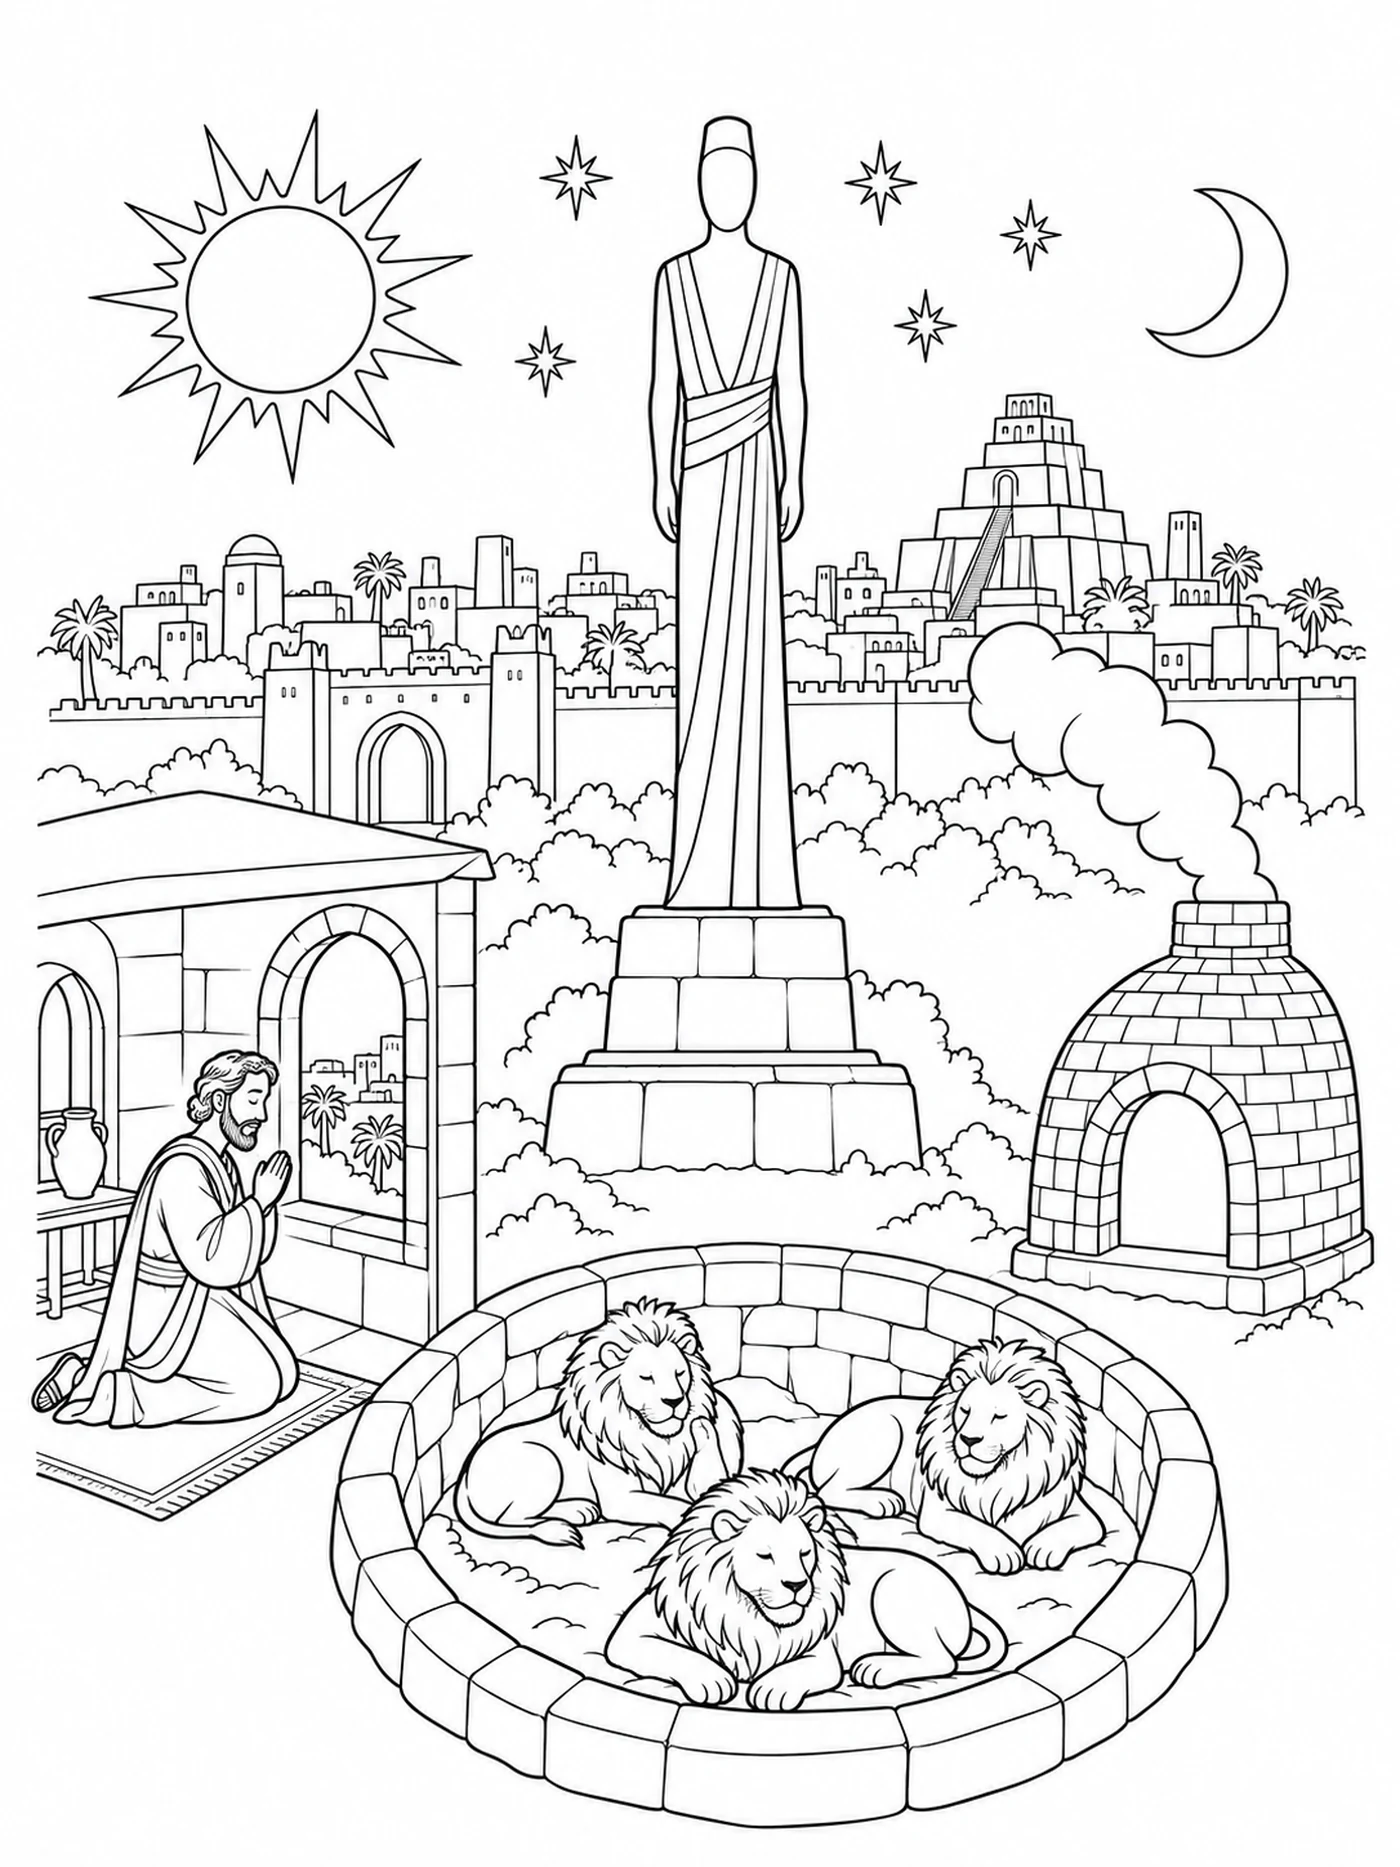
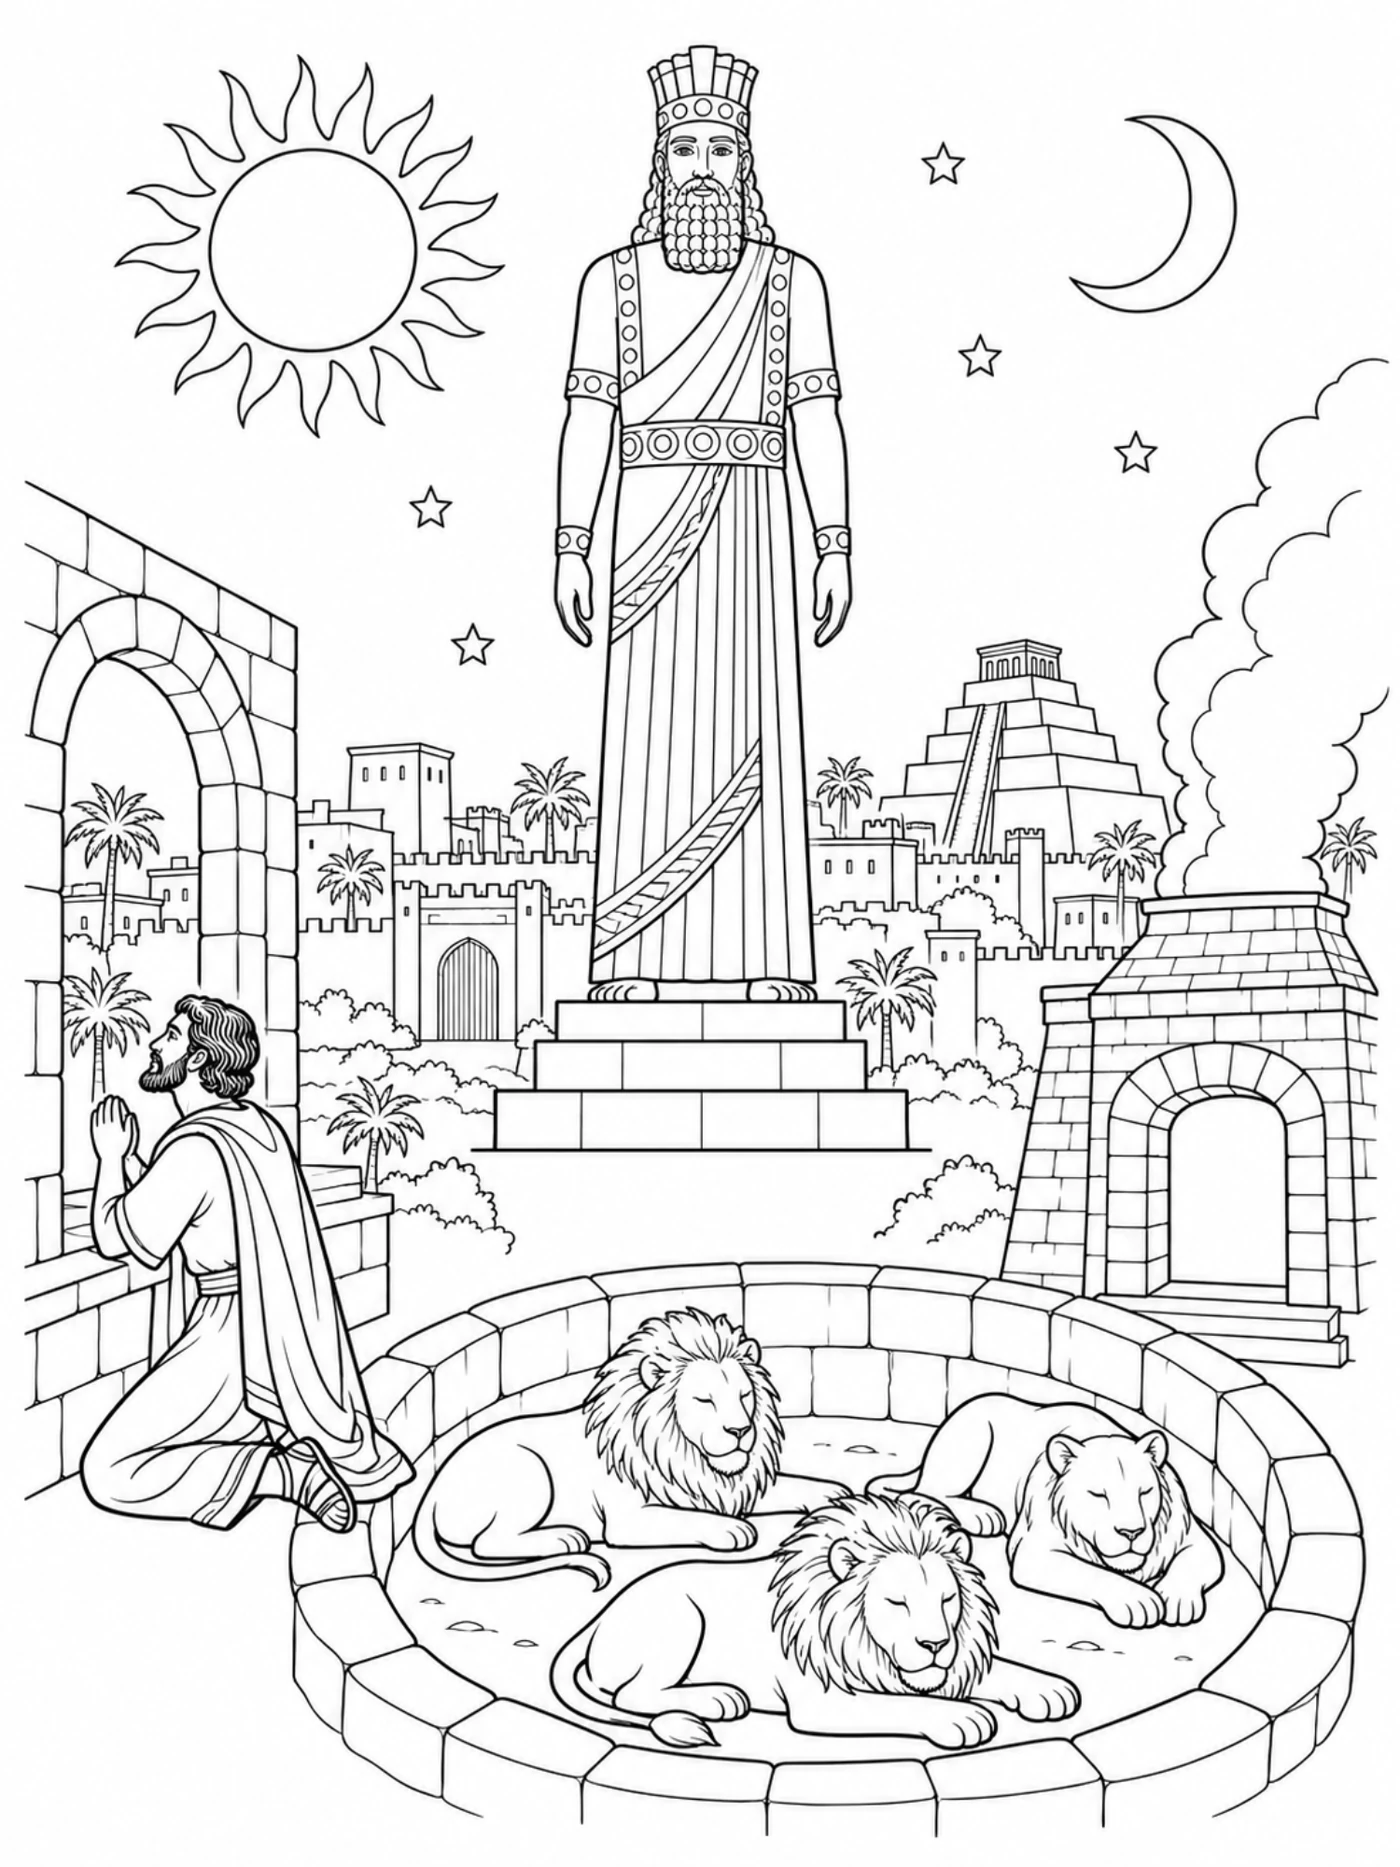
Bilder-Audit (Mose, Jona, Daniel): golden image in the Daniel panorama now a bearded Babylonian giant with a face; Daniel medal cut free again without ground shadow; Daniel gift page and statue game slices with face (Codex); Jonah sheep sprites without white holes; stations moved to their scenes (Mo

diff --git a/src/data/adventures/jonaPath.ts b/src/data/adventures/jonaPath.ts
@@ -12,17 +12,17 @@ export const JONA_PATH: [number, number][][] = [
   // station 2 to 3
   [[0.1906, 0.6371], [0.1943, 0.6519], [0.198, 0.6667], [0.2018, 0.6812], [0.2056, 0.695], [0.2095, 0.7079], [0.2135, 0.7196], [0.2177, 0.7301], [0.2218, 0.7395], [0.2261, 0.7481], [0.2304, 0.7557], [0.2347, 0.7625], [0.2391, 0.7681], [0.2435, 0.7726], [0.2479, 0.7759], [0.2523, 0.7783], [0.2568, 0.7799], [0.2613, 0.7809], [0.2657, 0.7814], [0.2702, 0.7813], [0.2747, 0.7805], [0.2791, 0.7789], [0.2836, 0.776], [0.288, 0.7713], [0.2923, 0.7644], [0.2964, 0.7541], [0.2999, 0.7376], [0.3017, 0.7134], [0.3021, 0.6867], [0.302, 0.6599], [0.3019, 0.633], [0.3018, 0.6062], [0.3019, 0.5793], [0.3023, 0.5526], [0.3034, 0.5266], [0.3055, 0.5031], [0.3085, 0.4833], [0.3127, 0.4739], [0.3171, 0.4733]],
   // station 3 to 4
-  [[0.3551, 0.4733], [0.3595, 0.4758], [0.3639, 0.4801], [0.3683, 0.4862], [0.3726, 0.4943], [0.3767, 0.5048], [0.3805, 0.5185], [0.384, 0.535], [0.3873, 0.5536], [0.3903, 0.5733], [0.3934, 0.5928], [0.3968, 0.6104], [0.4006, 0.6241], [0.4049, 0.6311]],
+  [[0.3551, 0.4733], [0.3596, 0.4711], [0.3642, 0.4692], [0.3687, 0.4674], [0.3733, 0.4665], [0.3778, 0.4667], [0.3824, 0.4684], [0.3869, 0.472], [0.3913, 0.4776], [0.3957, 0.4855], [0.3999, 0.4955], [0.4041, 0.507], [0.4081, 0.5197], [0.4121, 0.5329], [0.4161, 0.5459], [0.4202, 0.558], [0.4244, 0.5686], [0.4287, 0.577], [0.4332, 0.5825]],
   // station 4 to 5
-  [[0.4429, 0.6311], [0.447, 0.6192], [0.4505, 0.6017], [0.4537, 0.5825], [0.4569, 0.5631], [0.4602, 0.5443], [0.4637, 0.5272], [0.4677, 0.5142], [0.472, 0.506], [0.4761, 0.4942], [0.4796, 0.4768], [0.4825, 0.4559], [0.485, 0.4331], [0.4872, 0.4092], [0.4892, 0.3849], [0.4912, 0.3603], [0.4933, 0.3361], [0.4956, 0.3126], [0.4984, 0.2909], [0.5017, 0.2725], [0.5058, 0.2609]],
+  [[0.4712, 0.5825], [0.4711, 0.555], [0.4711, 0.5274], [0.4711, 0.4999], [0.4716, 0.4729], [0.4754, 0.4581], [0.4789, 0.4401], [0.4819, 0.4193], [0.4847, 0.3974], [0.4874, 0.3753], [0.4902, 0.3534], [0.4932, 0.3327], [0.4966, 0.3147], [0.5008, 0.3034]],
   // station 5 to 6
-  [[0.5438, 0.2609], [0.5468, 0.24], [0.5499, 0.22], [0.5532, 0.2014], [0.5568, 0.1849], [0.5608, 0.1719], [0.5652, 0.1642], [0.5697, 0.1637], [0.5741, 0.1705], [0.5781, 0.1829], [0.5818, 0.1992], [0.5851, 0.2178], [0.5882, 0.2379], [0.5911, 0.2591], [0.5938, 0.281], [0.5964, 0.3034], [0.5989, 0.3262], [0.6014, 0.3493], [0.6038, 0.3725], [0.6062, 0.3957], [0.6086, 0.419], [0.611, 0.4423], [0.6134, 0.4655], [0.6158, 0.4885], [0.6183, 0.5113], [0.6209, 0.534]],
+  [[0.5388, 0.3034], [0.5413, 0.2811], [0.5439, 0.2591], [0.5467, 0.2378], [0.5496, 0.2173], [0.5527, 0.1979], [0.5561, 0.1802], [0.5599, 0.1653], [0.564, 0.1546], [0.5684, 0.1502], [0.5729, 0.1533], [0.577, 0.1631], [0.5808, 0.1776], [0.5843, 0.195], [0.5874, 0.2144], [0.5903, 0.2351], [0.593, 0.2566], [0.5956, 0.2787], [0.5981, 0.3012], [0.6005, 0.3241], [0.6028, 0.3472], [0.6051, 0.3705], [0.6073, 0.3938], [0.6096, 0.4172], [0.6118, 0.4407], [0.6141, 0.4641], [0.6163, 0.4875], [0.6186, 0.5108], [0.6209, 0.534]],
   // station 6 to 7
-  [[0.6591, 0.534], [0.6618, 0.5554], [0.6646, 0.5767], [0.6674, 0.5978], [0.6703, 0.6183], [0.6734, 0.6378], [0.6767, 0.6559], [0.6803, 0.6724], [0.6841, 0.6873], [0.6879, 0.7008], [0.6919, 0.7132], [0.696, 0.7246], [0.7002, 0.7348], [0.7044, 0.7436], [0.7087, 0.7511], [0.7131, 0.7573], [0.7175, 0.7623], [0.722, 0.7663], [0.7264, 0.7697], [0.7309, 0.7726], [0.7354, 0.7751], [0.7398, 0.7772], [0.7443, 0.779], [0.7488, 0.7802], [0.7533, 0.7809], [0.7578, 0.7808], [0.7623, 0.7798], [0.7668, 0.7773], [0.7712, 0.7718], [0.7753, 0.7616], [0.779, 0.7459], [0.7818, 0.7251], [0.7834, 0.6999], [0.784, 0.6731], [0.7844, 0.6462]],
+  [[0.6589, 0.534], [0.6633, 0.5266], [0.6675, 0.5154], [0.6715, 0.5015], [0.6753, 0.486], [0.679, 0.4701], [0.6828, 0.4548], [0.6868, 0.441], [0.691, 0.4297], [0.6954, 0.4215], [0.6999, 0.4163], [0.7045, 0.4138], [0.7091, 0.4133], [0.7137, 0.4144], [0.7183, 0.4163], [0.7228, 0.4187]],
   // station 7 to 8
-  [[0.8217, 0.6713], [0.8233, 0.696], [0.8252, 0.7195], [0.8281, 0.7391], [0.8319, 0.7526], [0.836, 0.7615], [0.8403, 0.7663], [0.8447, 0.7659], [0.849, 0.7611], [0.8532, 0.7526], [0.8569, 0.739], [0.86, 0.7203], [0.8626, 0.6988], [0.8645, 0.6753], [0.8659, 0.6503]],
+  [[0.7608, 0.4187], [0.7647, 0.4074], [0.7682, 0.4233], [0.7706, 0.4464], [0.7725, 0.4709], [0.7742, 0.4961], [0.7757, 0.5215], [0.7773, 0.5469], [0.7788, 0.5724], [0.7804, 0.5976], [0.7823, 0.6224], [0.7844, 0.6462]],
   // station 8 to 9
-  [[0.9031, 0.625], [0.9066, 0.641], [0.9103, 0.6558], [0.9143, 0.6669], [0.9185, 0.673], [0.9229, 0.6742], [0.9271, 0.667], [0.9307, 0.6516], [0.933, 0.6293], [0.9341, 0.6036], [0.9346, 0.5773], [0.9348, 0.5509], [0.9349, 0.5244], [0.9349, 0.4979], [0.9349, 0.4715], [0.935, 0.445], [0.9352, 0.4185], [0.9355, 0.3921], [0.936, 0.3658]],
+  [[0.8224, 0.6462], [0.8248, 0.6696], [0.8273, 0.6925], [0.83, 0.7148], [0.8329, 0.7359], [0.8362, 0.7544], [0.8402, 0.7672], [0.8448, 0.7679], [0.8488, 0.7562], [0.8523, 0.738], [0.8552, 0.717], [0.8579, 0.6948], [0.8604, 0.6718], [0.8628, 0.6485], [0.8651, 0.625]],
   // station 9 to the exam
-  [[0.9727, 0.3398], [0.9764, 0.3561], [0.9796, 0.3753], [0.9813, 0.4007], [0.9813, 0.4279], [0.9795, 0.4528], [0.9768, 0.475], [0.9748, 0.4995], [0.9736, 0.526], [0.9728, 0.5529]]
+  [[0.9031, 0.625], [0.9053, 0.6488], [0.9077, 0.6718], [0.9108, 0.6916], [0.9146, 0.7065], [0.9187, 0.7174], [0.923, 0.7259], [0.9274, 0.7323], [0.9319, 0.7362], [0.9364, 0.7367], [0.9409, 0.7335], [0.9453, 0.7269], [0.9495, 0.7165], [0.9531, 0.7007], [0.956, 0.6798], [0.9582, 0.6561], [0.9602, 0.6316], [0.9621, 0.6068]]
 ]

diff --git a/src/data/adventures/daniel.ts b/src/data/adventures/daniel.ts
@@ -59,25 +59,25 @@ const VERS: VerseGame = {
 
 /**
  * Etappe 4, "Das Standbild": die fünf Scheiben des Standbildes aus dem Traum (Kopf aus Gold, Brust und Arme aus Silber, Bauch und Hüften aus Erz, Beine aus Eisen, Füße aus Eisen und Ton) werden auf ihre Plätze gezogen, danach rollt der Stein, das Standbild
- * zerfällt und der Stein wird zum Berg (neu). Bilder (Bildauftrag D31, Neufassung v2): `standbild/traum.webp` 900 × 675 (Sockel bei 27–73 Prozent der Breite), `scheibe-1..5.webp` (aus EINEM gemalten Standbild nach Material geschnitten, Gliederpuppe ohne Gesicht,
- * `tools/standbild_scheiben.py` in Abenteuer-Daniel), `stein.webp`, `berg.webp`. Lage und Breite in Prozent des Bildes aus dem Schnitt gemessen: Kopf bei 6, Füße bei 77 Prozent der Höhe; die Arme hängen neben Bauch und Beinen und gehören zur Brust
+ * zerfällt und der Stein wird zum Berg (neu). Bilder (Bildauftrag D31, Neufassung v3 vom 24.10.2026): `standbild/traum.webp` 900 × 675 (Sockel bei 27–73 Prozent der Breite), `scheibe-1..5.webp` (aus EINEM gemalten Standbild nach Material geschnitten, ein bärtiger babylonischer Riese mit Gesicht, Krone und Gewand (Bilder-Audit DA-3),
+ * `D:/Claude/lambking-design/_einbau-v4/standbild_scheiben_v3.py`), `stein.webp`, `berg.webp`. Lage und Breite in Prozent des Bildes aus dem Schnitt gemessen: Kopf bei 6, Füße bei 77 Prozent der Höhe; die Arme hängen neben Bauch und Beinen und gehören zur Brust
  * (darum liegt der Platz der Brust nur am Körper, die Scheibe selbst sitzt in der Mitte ihrer Umrisse). Wartend sind die Scheiben größer gezeichnet (`wait`).
  */
 const STANDBILD: StatueGame = {
   background: `${G}standbild/traum.webp`,
   pieces: [
-    { id: 'kopf', image: `${G}standbild/scheibe-1.webp`, label: 'Gold', w: 5.18, at: { x: 50.11, y: 11.9 }, wait: 2.2 },
-    { id: 'brust', image: `${G}standbild/scheibe-2.webp`, label: 'Silber', w: 15.68, at: { x: 50.01, y: 33.4 }, wait: 1.2 },
-    { id: 'bauch', image: `${G}standbild/scheibe-3.webp`, label: 'Erz', w: 9.35, at: { x: 50.13, y: 36.05 }, wait: 2.0 },
-    { id: 'beine', image: `${G}standbild/scheibe-4.webp`, label: 'Eisen', w: 9.22, at: { x: 50.07, y: 56.71 }, wait: 1.2 },
-    { id: 'fuesse', image: `${G}standbild/scheibe-5.webp`, label: 'Eisen und Ton', w: 13.01, at: { x: 50.09, y: 74.17 }, wait: 2.0 }
+    { id: 'kopf', image: `${G}standbild/scheibe-1.webp`, label: 'Gold', w: 11.34, at: { x: 50.01, y: 14.05 }, wait: 2.2 },
+    { id: 'brust', image: `${G}standbild/scheibe-2.webp`, label: 'Silber', w: 14.39, at: { x: 50.01, y: 35.65 }, wait: 1.2 },
+    { id: 'bauch', image: `${G}standbild/scheibe-3.webp`, label: 'Erz', w: 10.19, at: { x: 50.05, y: 40.91 }, wait: 2.0 },
+    { id: 'beine', image: `${G}standbild/scheibe-4.webp`, label: 'Eisen', w: 11.29, at: { x: 50.01, y: 60.31 }, wait: 1.2 },
+    { id: 'fuesse', image: `${G}standbild/scheibe-5.webp`, label: 'Eisen und Ton', w: 9.02, at: { x: 50.0, y: 74.22 }, wait: 2.0 }
   ],
   slots: [
-    { x: 50.11, y: 11.9, w: 5.18, h: 11.79 },
-    { x: 50.11, y: 23.88, w: 9.35, h: 12.18 },
-    { x: 50.13, y: 36.05, w: 9.35, h: 12.15 },
-    { x: 50.07, y: 56.71, w: 9.22, h: 29.18 },
-    { x: 50.09, y: 74.17, w: 13.01, h: 5.74 }
+    { x: 50.01, y: 14.05, w: 11.34, h: 16.1 },
+    { x: 50.04, y: 27.35, w: 10.17, h: 10.51 },
+    { x: 50.05, y: 40.91, w: 10.19, h: 16.61 },
+    { x: 50.01, y: 60.31, w: 11.29, h: 22.2 },
+    { x: 50.0, y: 74.22, w: 9.02, h: 5.63 }
   ],
   stone: `${G}standbild/stein.webp`,
   mountain: `${G}standbild/berg.webp`,
@@ -194,9 +194,9 @@ export const daniel: Journey = {
       { x: 0.651, y: 0.5461, d: 0.0339 },
       { x: 0.7216, y: 0.5825, d: 0.0339 },
       { x: 0.8377, y: 0.3883, d: 0.0339 },
-      { x: 0.9336, y: 0.2852, d: 0.0339 }
+      { x: 0.9336, y: 0.3641, d: 0.0339 }
     ],
-    exam: { x: 0.9861, y: 0.2852, d: 0.0339 },
+    exam: { x: 0.9861, y: 0.6129, d: 0.0339 },
     path: DANIEL_PATH
   },
   stages: [

diff --git a/src/data/adventures/mosePath.ts b/src/data/adventures/mosePath.ts
@@ -8,13 +8,13 @@
  */
 export const MOSE_PATH: [number, number][][] = [
   // station 1 to 2
-  [[0.0997, 0.6432], [0.1016, 0.6191], [0.1023, 0.5927], [0.1024, 0.566], [0.1024, 0.5393], [0.1023, 0.5126], [0.1023, 0.4859], [0.1027, 0.4593], [0.1034, 0.4329], [0.1045, 0.4071], [0.1059, 0.3818], [0.1076, 0.357], [0.1093, 0.3325], [0.1111, 0.308], [0.1129, 0.2834], [0.1152, 0.2609]],
+  [[0.0997, 0.6432], [0.0986, 0.6179], [0.098, 0.5918], [0.0974, 0.5657], [0.097, 0.5395], [0.0965, 0.5133], [0.096, 0.4871], [0.0955, 0.461], [0.0949, 0.4349], [0.0947, 0.4092], [0.0989, 0.4038], [0.1033, 0.3994], [0.1076, 0.3945], [0.1119, 0.3904], [0.1163, 0.3883]],
   // station 2 to 3
-  [[0.1532, 0.2609], [0.1562, 0.2822], [0.159, 0.304], [0.1618, 0.326], [0.1646, 0.3481], [0.1675, 0.3697], [0.1705, 0.3905], [0.1739, 0.4097], [0.1776, 0.426], [0.1818, 0.4364], [0.1864, 0.4373], [0.1907, 0.4282], [0.1946, 0.4129], [0.198, 0.3944]],
+  [[0.1542, 0.3883], [0.1565, 0.3743], [0.1587, 0.3605], [0.1611, 0.3474], [0.1637, 0.3364], [0.1668, 0.33], [0.17, 0.3313], [0.1729, 0.3393], [0.1755, 0.3509], [0.1778, 0.3641]],
   // station 3 to 4
-  [[0.236, 0.3944], [0.2371, 0.3757], [0.2368, 0.3555], [0.2361, 0.3357], [0.2358, 0.3155], [0.2365, 0.2957], [0.2382, 0.2782], [0.2403, 0.2626], [0.2424, 0.2468], [0.2444, 0.2306]],
+  [[0.2158, 0.3641], [0.2197, 0.3774], [0.2241, 0.3787], [0.2281, 0.3665], [0.2313, 0.348], [0.2342, 0.3272], [0.2368, 0.3052], [0.2393, 0.2828], [0.2419, 0.2606], [0.2445, 0.2389], [0.2475, 0.2184]],
   // station 4 to 5
-  [[0.2824, 0.2306], [0.2865, 0.2197], [0.2909, 0.2179], [0.2951, 0.2267], [0.2988, 0.2424], [0.3019, 0.2615], [0.3048, 0.2824], [0.3074, 0.3044], [0.3098, 0.327], [0.3121, 0.35], [0.3144, 0.3734], [0.3166, 0.3968], [0.3188, 0.4204], [0.321, 0.4439], [0.3232, 0.4673], [0.3255, 0.4905], [0.3279, 0.5133], [0.3305, 0.5355], [0.3332, 0.5568], [0.3363, 0.5765]],
+  [[0.2854, 0.2184], [0.2899, 0.2225], [0.2942, 0.2285], [0.2982, 0.2408], [0.3012, 0.2604], [0.3036, 0.2833], [0.3055, 0.3077], [0.3069, 0.3333], [0.308, 0.3594], [0.3089, 0.3858], [0.31, 0.412], [0.3114, 0.4375], [0.3131, 0.4624], [0.3151, 0.4864], [0.3175, 0.5092], [0.3204, 0.5296], [0.3239, 0.5465], [0.3278, 0.5603], [0.3319, 0.5699], [0.3363, 0.5765]],
   // station 5 to 6
   [[0.3743, 0.5765], [0.3764, 0.5999], [0.3785, 0.6231], [0.3808, 0.6458], [0.3834, 0.6678], [0.3861, 0.6888], [0.3892, 0.7078], [0.3928, 0.7232], [0.397, 0.7315], [0.4013, 0.7287], [0.4052, 0.7162], [0.4085, 0.6986], [0.4114, 0.6784], [0.414, 0.6567], [0.4163, 0.6341], [0.4185, 0.611], [0.4206, 0.5874], [0.4226, 0.5636], [0.4245, 0.5396], [0.4264, 0.5155], [0.4282, 0.4913], [0.43, 0.467], [0.4318, 0.4427], [0.4337, 0.4184], [0.4355, 0.3942], [0.4374, 0.37], [0.4392, 0.3459]],
   // station 6 to 7
@@ -36,5 +36,5 @@ export const MOSE_PATH: [number, number][][] = [
   // station 14 to 15
   [[0.9314, 0.4854], [0.9328, 0.4594], [0.9347, 0.4345], [0.9382, 0.4253], [0.9406, 0.4485], [0.9421, 0.4743], [0.9434, 0.5007], [0.9445, 0.5272], [0.9456, 0.5537], [0.9468, 0.5803], [0.9479, 0.6068]],
   // station 15 to the exam
-  [[0.9859, 0.6068], [0.9883, 0.5835], [0.9905, 0.5597], [0.9921, 0.5343], [0.993, 0.5075], [0.9923, 0.481], [0.9887, 0.4648], [0.9844, 0.4565], [0.9799, 0.4517], [0.9754, 0.4495], [0.9709, 0.4477], [0.9665, 0.4417], [0.9629, 0.4253], [0.9606, 0.4018], [0.9597, 0.3751], [0.9601, 0.348], [0.9613, 0.3218], [0.9635, 0.2978], [0.9662, 0.276], [0.9691, 0.2549]]
+  [[0.9859, 0.6068], [0.9883, 0.5835], [0.9905, 0.5597], [0.9921, 0.5343], [0.993, 0.5075], [0.9923, 0.481], [0.9887, 0.4648], [0.9844, 0.4565], [0.9799, 0.4517], [0.9754, 0.4495], [0.9709, 0.4477], [0.9665, 0.4417], [0.9629, 0.4253], [0.9606, 0.4018], [0.9597, 0.3751], [0.9601, 0.348], [0.9613, 0.3218], [0.9635, 0.2978]]
 ]

diff --git a/src/data/adventures/danielPath.ts b/src/data/adventures/danielPath.ts
@@ -22,7 +22,7 @@ export const DANIEL_PATH: [number, number][][] = [
   // station 7 to 8
   [[0.7425, 0.5687], [0.7464, 0.5545], [0.7501, 0.5392], [0.7537, 0.5228], [0.7572, 0.5055], [0.7606, 0.4874], [0.7639, 0.4691], [0.7677, 0.4542], [0.7719, 0.4437], [0.7762, 0.4358], [0.7806, 0.4292], [0.785, 0.4236], [0.7895, 0.4192], [0.794, 0.4162], [0.7985, 0.4135], [0.803, 0.41], [0.8075, 0.4054], [0.8119, 0.4], [0.8163, 0.3942]],
   // station 8 to 9
-  [[0.8568, 0.3635], [0.8592, 0.3396], [0.8622, 0.3186], [0.8659, 0.3017], [0.87, 0.2879], [0.8742, 0.2769], [0.8787, 0.2688], [0.8833, 0.2637], [0.8879, 0.2605], [0.8925, 0.2587], [0.8972, 0.2579], [0.9018, 0.2582], [0.9064, 0.2607], [0.9109, 0.2687], [0.9146, 0.2852]],
+  [[0.8568, 0.3637], [0.8592, 0.3398], [0.8622, 0.3189], [0.8659, 0.302], [0.8699, 0.2883], [0.8741, 0.2773], [0.8786, 0.2697], [0.8831, 0.265], [0.8877, 0.2627], [0.8924, 0.2618], [0.897, 0.2623], [0.9016, 0.2645], [0.9061, 0.2704], [0.9098, 0.2861], [0.9119, 0.3109], [0.9134, 0.3373], [0.9146, 0.3641]],
   // station 9 to the exam
-  [[0.9526, 0.2852], [0.9538, 0.298], [0.9552, 0.3105], [0.9567, 0.3222], [0.9586, 0.3313], [0.961, 0.3313], [0.963, 0.3222], [0.9645, 0.3105], [0.9658, 0.298], [0.9671, 0.2852]]
+  [[0.9526, 0.3641], [0.9548, 0.3868], [0.9568, 0.4102], [0.9589, 0.4333], [0.9607, 0.4572], [0.9618, 0.4827], [0.962, 0.509], [0.9616, 0.5353], [0.961, 0.5613], [0.9608, 0.5876], [0.962, 0.6129]]
 ]

diff --git a/src/data/adventures/jona.ts b/src/data/adventures/jona.ts
@@ -189,12 +189,12 @@ export const jona: Journey = {
       { x: 0.0959, y: 0.6068, d: 0.0339 },
       { x: 0.1716, y: 0.6371, d: 0.0339 },
       { x: 0.3361, y: 0.4733, d: 0.0339 },
-      { x: 0.4239, y: 0.6311, d: 0.0339 },
-      { x: 0.5248, y: 0.2609, d: 0.0339 },
+      { x: 0.4522, y: 0.5825, d: 0.0339 },
+      { x: 0.5198, y: 0.3034, d: 0.0339 },
       { x: 0.6399, y: 0.534, d: 0.0339 },
+      { x: 0.7418, y: 0.4187, d: 0.0339 },
       { x: 0.8034, y: 0.6462, d: 0.0339 },
-      { x: 0.8841, y: 0.625, d: 0.0339 },
-      { x: 0.9538, y: 0.3398, d: 0.0339 }
+      { x: 0.8841, y: 0.625, d: 0.0339 }
     ],
     exam: { x: 0.9881, y: 0.6068, d: 0.0339 },
     path: JONA_PATH

diff --git a/src/data/adventures/mose.ts b/src/data/adventures/mose.ts
@@ -250,9 +250,9 @@ export const mose: Journey = {
     widthPx: 9908,
     stages: [
       { x: 0.0807, y: 0.6432, d: 0.0339 },
-      { x: 0.1342, y: 0.2609, d: 0.0339 },
-      { x: 0.217, y: 0.3944, d: 0.0339 },
-      { x: 0.2634, y: 0.2306, d: 0.0339 },
+      { x: 0.1352, y: 0.3883, d: 0.0339 },
+      { x: 0.1968, y: 0.3641, d: 0.0339 },
+      { x: 0.2665, y: 0.2184, d: 0.0339 },
       { x: 0.3553, y: 0.5765, d: 0.0339 },
       { x: 0.4582, y: 0.3459, d: 0.0339 },
       { x: 0.5147, y: 0.6432, d: 0.0339 },
